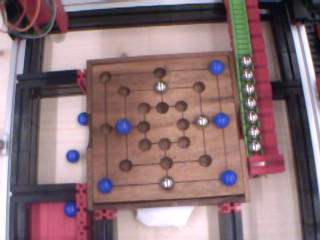
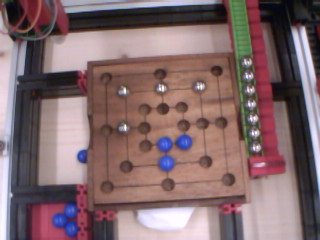
Fixed some errors,adjusted PosIMG

diff --git a/Tria.py b/Tria.py
@@ -52,12 +52,10 @@ Ypos = [900, 900, 900, 1471, 1471, 1471, 2500, 2500, 2500,
         3926, 4747, 4747, 4747, 5531, 5531, 5531]
 
 # Coordinate posizioni immagine fotocamera
-XposIMG = [101, 156, 213, 121, 157, 195, 139, 157,
-           178, 101, 122, 139, 179, 198, 217, 139,
-           160, 180, 121, 162, 200, 101, 160, 223]
-YposIMG = [72, 70, 66, 87, 84, 83, 104, 104,
-           103, 124, 124, 123, 121, 119, 118, 140,
-           140, 138, 161, 160, 156, 182, 180, 176]
+XposIMG = [98, 153, 208, 117, 154, 192, 138, 157, 173, 99, 118,
+           136, 176, 195, 214, 137, 156, 177, 117, 159, 198, 98, 159, 222]
+YposIMG = [70, 67, 64, 86, 82, 81, 102, 103, 100, 122, 122, 121,
+           118, 116, 116, 139, 137, 136, 158, 157, 155, 180, 178, 172]
 
 # Valore posizione(0 = posizione vuota, 1 = pallina Robot, 10 = pallina User)
 EMPTY = 0
@@ -310,6 +308,7 @@ def FPossibiliTria():
     opt.PosSvolgiTria = []
     posEmpty = -1
     posUser = -1
+    pRobot = False
     for i in TRIA:
         t = []
         for j in i:
@@ -324,9 +323,8 @@ def FPossibiliTria():
             opt.PosBloccoTriaU.append(posEmpty)
             opt.PosTogliPallina = posUser
         elif sum(t) == 2:
-            opt.Priorita = SVOLGITRIA
             opt.PosSvolgiTria.append(posEmpty)
-            break
+            pRobot = True
         elif sum(t) == 30:
             if not opt.Controllo:
                 if(TRIA.index(i) not in opt.TrieUtente):
@@ -340,6 +338,8 @@ def FPossibiliTria():
                     ValposUpdate()
                     opt.TogliPallineR = False
                     FPossibiliTria()
+    if pRobot:
+        opt.Priorita = SVOLGITRIA
 
 
 def ControlloAttacco():
@@ -467,27 +467,27 @@ def ControlloDifesa():
                     if Val[a[i + 3]] == EMPTY:
                         Val[a[i + 3]] = USER
                         for j in range(0, 12):
-                            Val[a[j]] = USER
-                            FPossibiliTria()
-                            if len(opt.PosBloccoTriaU) > 1:
-                                opt.Priorita = DIFESA
-                                opt.PosDifesa = a[i + 3]
-                                break
-                            else:
+                            if Val[a[j]] == EMPTY:
+                                Val[a[j]] = USER
+                                FPossibiliTria()
                                 Val[a[j]] = EMPTY
+                                if len(opt.PosBloccoTriaU) > 1:
+                                    opt.Priorita = DIFESA
+                                    opt.PosDifesa = a[i + 3]
+                                    break
                         Val[a[i + 3]] = EMPTY
                 elif a[i] in [23, 20, 17, 2, 5, 8]:
                     if Val[a[i - 3]] == EMPTY:
                         Val[a[i - 3]] = USER
                         for j in range(0, 12):
-                            Val[a[j]] = USER
-                            FPossibiliTria()
-                            if len(opt.PosBloccoTriaU) > 1:
-                                opt.Priorita = DIFESA
-                                opt.PosDifesa = a[i - 3]
-                                break
-                            else:
+                            if Val[a[j]] == EMPTY:
+                                Val[a[j]] = USER
+                                FPossibiliTria()
                                 Val[a[j]] = EMPTY
+                                if len(opt.PosBloccoTriaU) > 1:
+                                    opt.Priorita = DIFESA
+                                    opt.PosDifesa = a[i - 3]
+                                    break
                         Val[a[i - 3]] = EMPTY
     opt.Controllo = False
 
@@ -530,7 +530,7 @@ def TogliPallina():
                 catch()
                 fromto(Xpos[i], Ypos[i],
                        contenitorePVR[0], contenitorePVR[1])
-                Val[contatore] = EMPTY
+                Val[i] = EMPTY
                 break
     release()
     opt.Priorita = 3
@@ -573,7 +573,7 @@ if (Robot):
             ControlloAttacco()
             if opt.Priorita != 3:
                 debug("Controllo Difesa...")
-                ControlloDifesa()
+                # ControlloDifesa()
         if opt.Priorita == DIFESA:
             debug("Difesa...")
             Difesa()
@@ -584,7 +584,7 @@ if (Robot):
         lamp.setLevel(OUTMAX)
         AttendUser()
         lamp.setLevel(OUTMIN)
-        time.sleep(0.5)
+        time.sleep(0.2)
         ValposUpdate()
         Controlli()
 
@@ -619,4 +619,4 @@ if (User):
         lamp.setLevel(OUTMAX)
         AttendUser()
         lamp.setLevel(OUTMIN)
-        time.sleep(0.5)
+        time.sleep(0.2)

diff --git a/DrawRectangleCoordinatesTria.py b/DrawRectangleCoordinatesTria.py
@@ -3,13 +3,11 @@ import cv2
 WHITE = [255, 255, 255]
 
 # Coordinate posizioni immagine fotocamera
-x_pos = [101, 156, 213, 121, 157, 195, 139, 157,
-         178, 101, 122, 139, 179, 198, 217, 139,
-         160, 180, 121, 162, 200, 101, 160, 223]
+x_pos = [98,153,208,117,154,192,138,157,173,99,118,136,
+         176,195,214,137,156,177,117,159,198,98,159,222]
 
-y_pos = [72, 70, 66, 87, 84, 83, 104, 104,
-         103, 124, 124, 123, 121, 119, 118, 140,
-         140, 138, 161, 160, 156, 182, 180, 176]
+y_pos = [70, 67, 64, 86, 82, 81, 102, 103, 100, 122, 122, 121,
+         118, 116, 116, 139, 137, 136, 158, 157, 155, 180, 178, 172]
 
 img = cv2.imread('img/TXTCamImg.jpg')
 for x, y in zip(x_pos, y_pos):

diff --git a/opt.py b/opt.py
@@ -16,3 +16,4 @@ TogliPallineR = False
 TrieUtente = []
 PosAttacco = []                 # Posizione attacco
 PosTogliPallina = []            # Posizione togli pallina
+PPTU=[]
